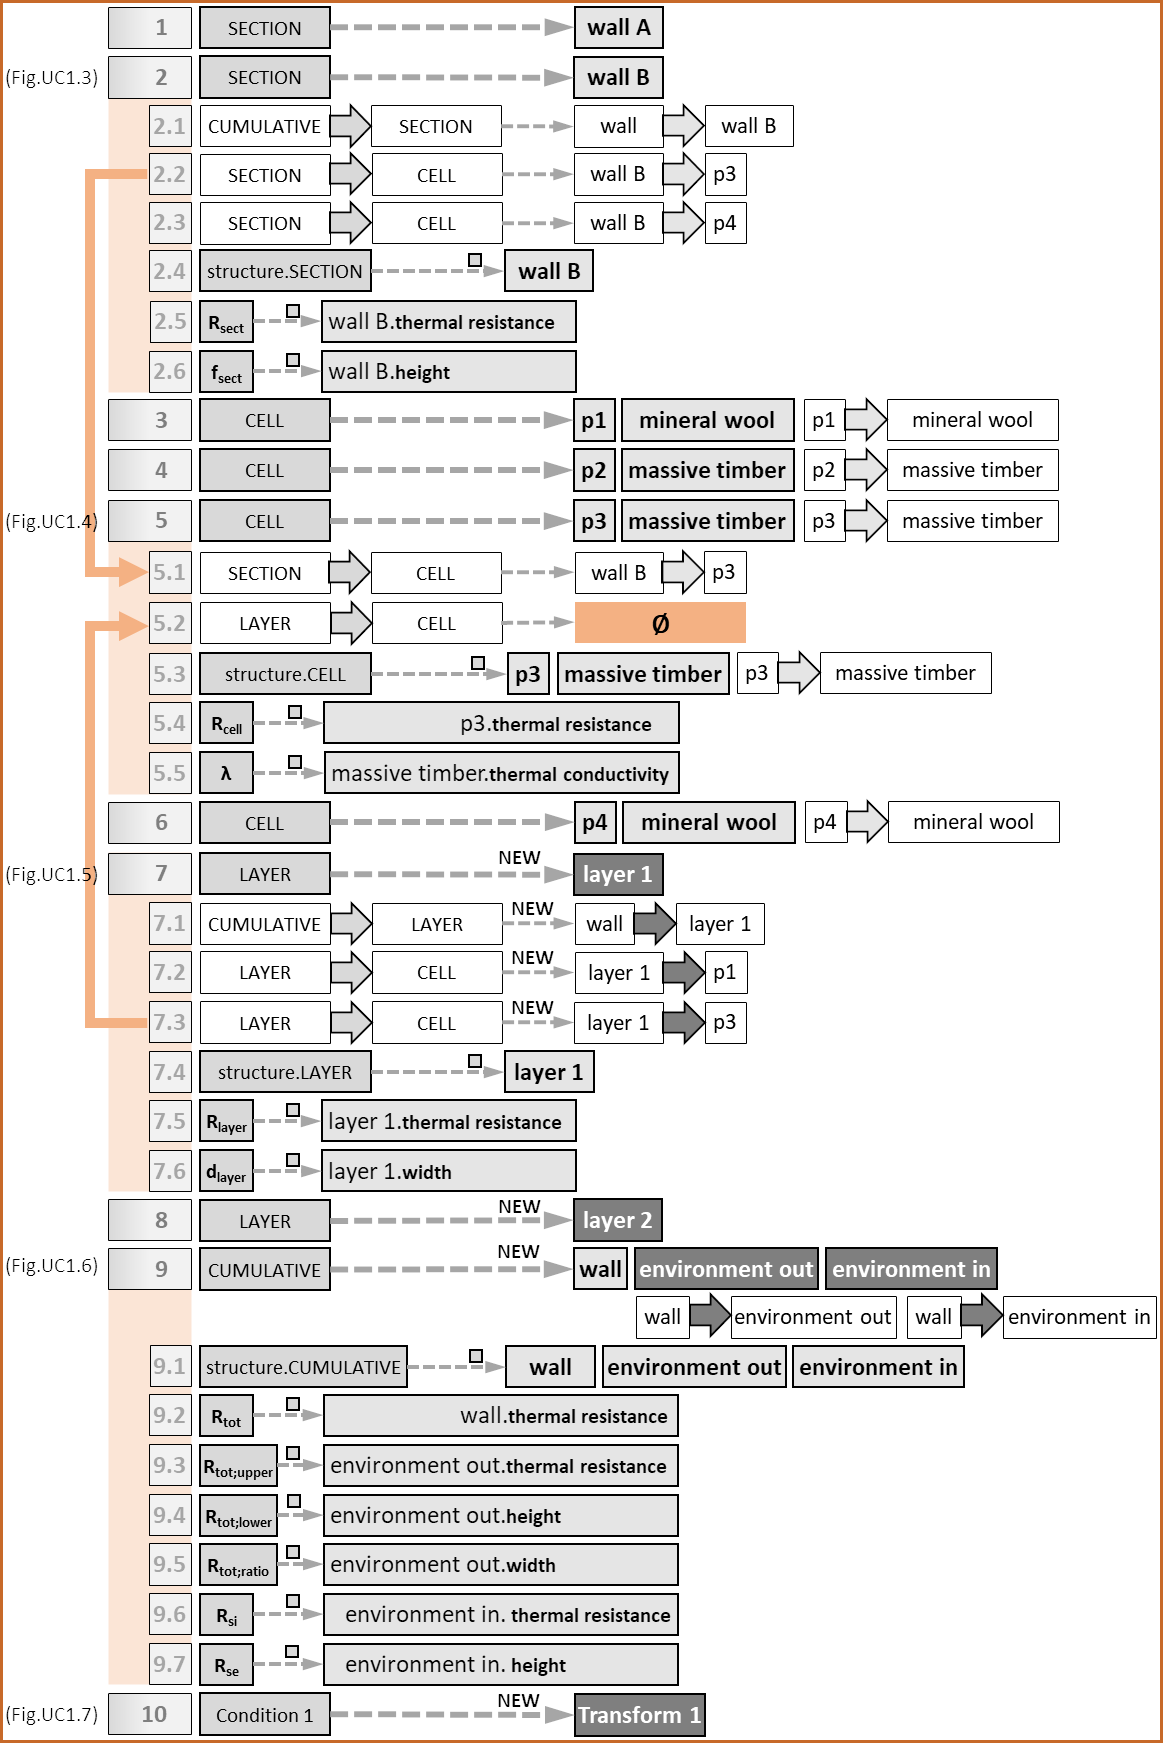
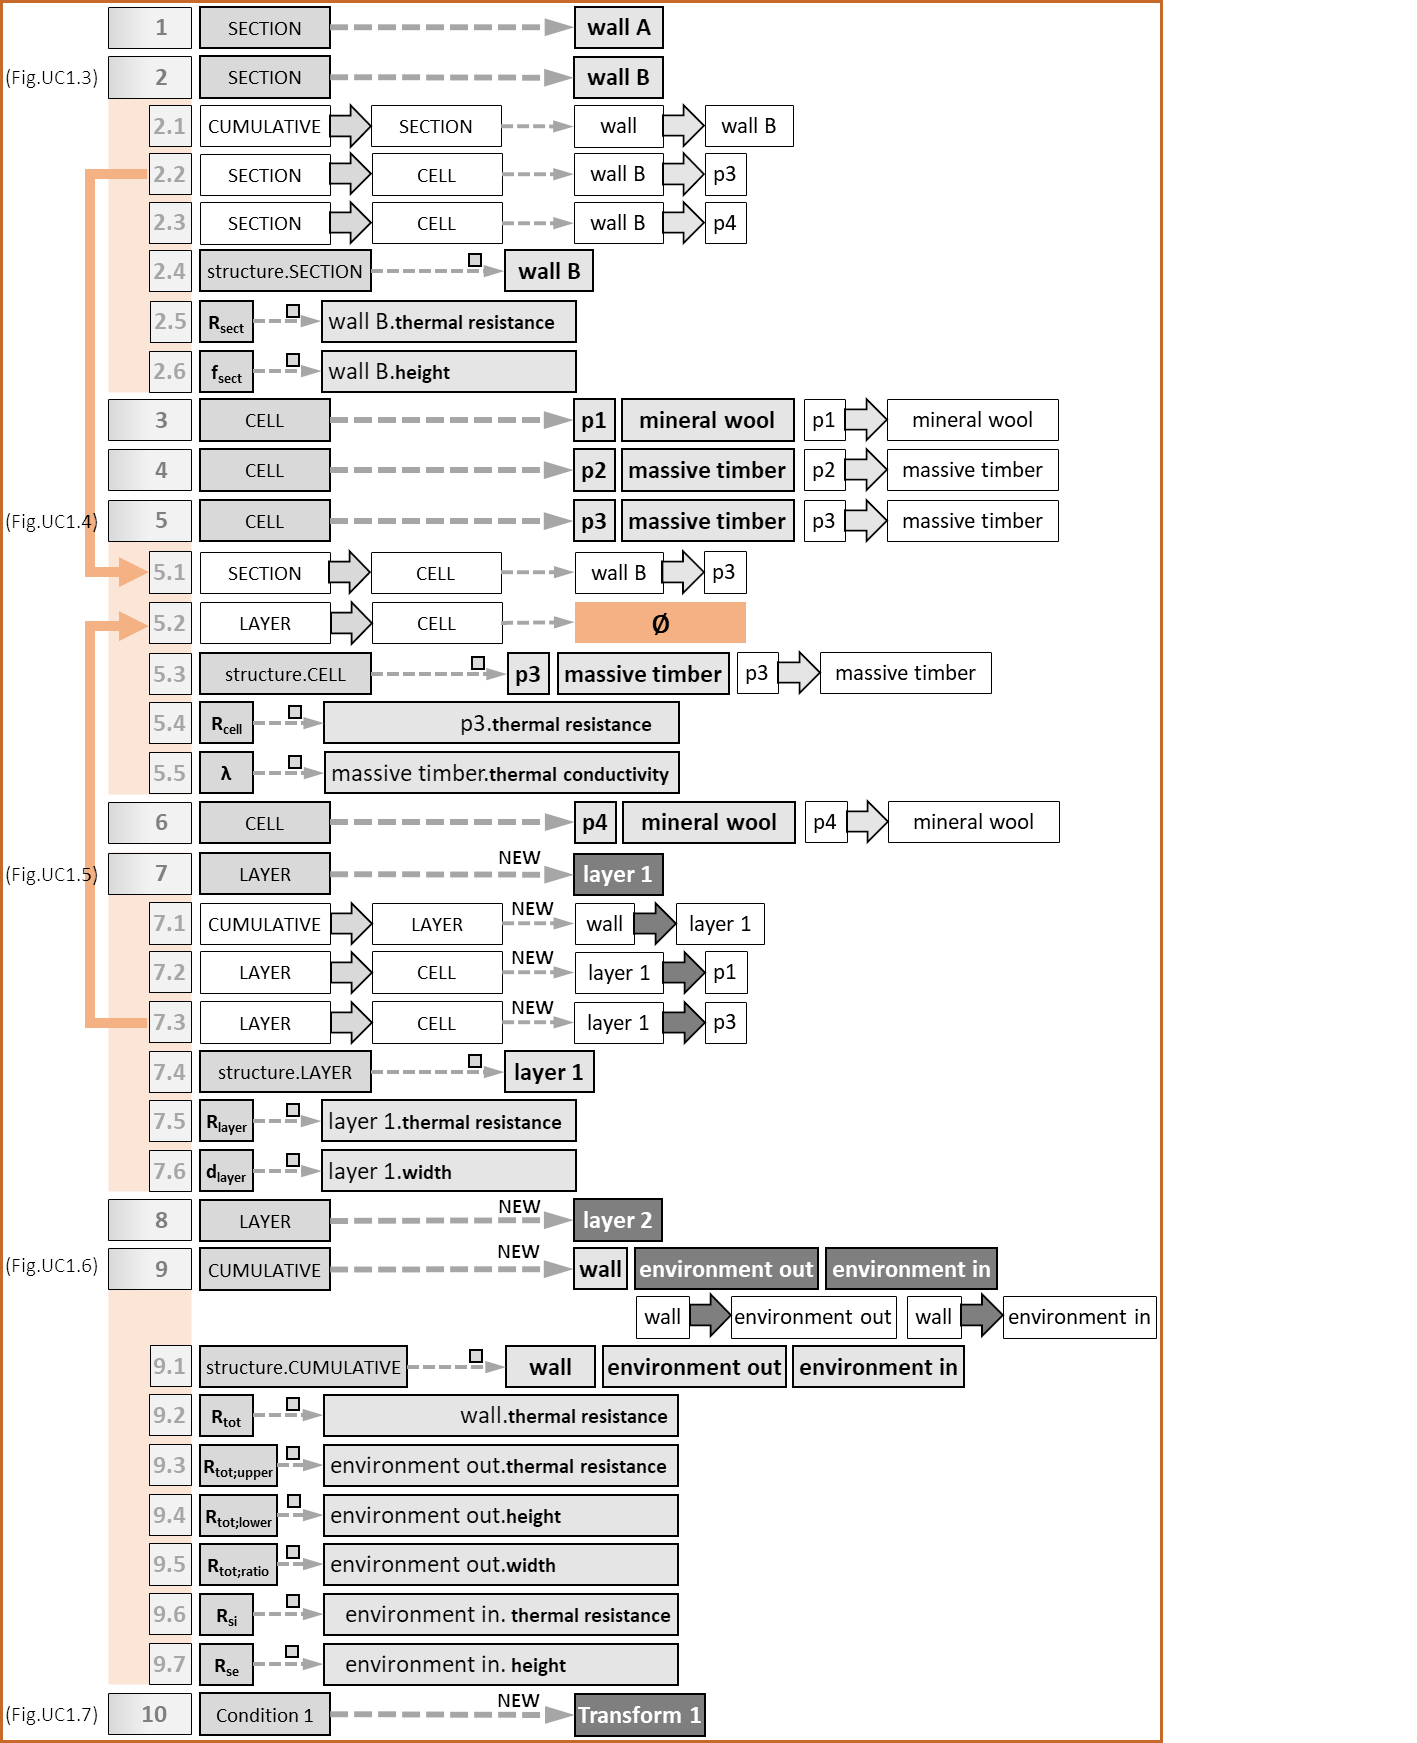
changed size of application model image

Changed region(s): [[0.0, 0.0, 1.0, 1.0], [0.8048, 0.4337, 0.8977, 0.4957], [0.8048, 0.0, 0.8358, 0.031]]

diff --git a/README.md b/README.md
@@ -86,7 +86,7 @@ The final result of the model’s adaptation to the guideline is shown in Fig.UC
 ![UC4 Final Model](UC4/UCx4_8.png)
 *Fig.UC1.8. The final result of applying the template.*
 
-![UC4 Application Model](UC4/UCx4_9small.png)
+![UC4 Application Model](UC4/UCx4_9.png)
 
 *Fig.UC1.9. The template application model.*
 
@@ -96,7 +96,7 @@ The final result of the model’s adaptation to the guideline is shown in Fig.UC
 ![UC4 Updating the Model 2](UC4/UCx4_11.png)
 *Fig.UC1.11. Updating the model after template application: adding an independent element.*
 
-![UC4 Application Model Update](UC4/UCx4_12small.png)
+![UC4 Application Model Update](UC4/UCx4_12.png)
 
 *Fig.UC1.12. The template application model: adding a section automatically.*
 
